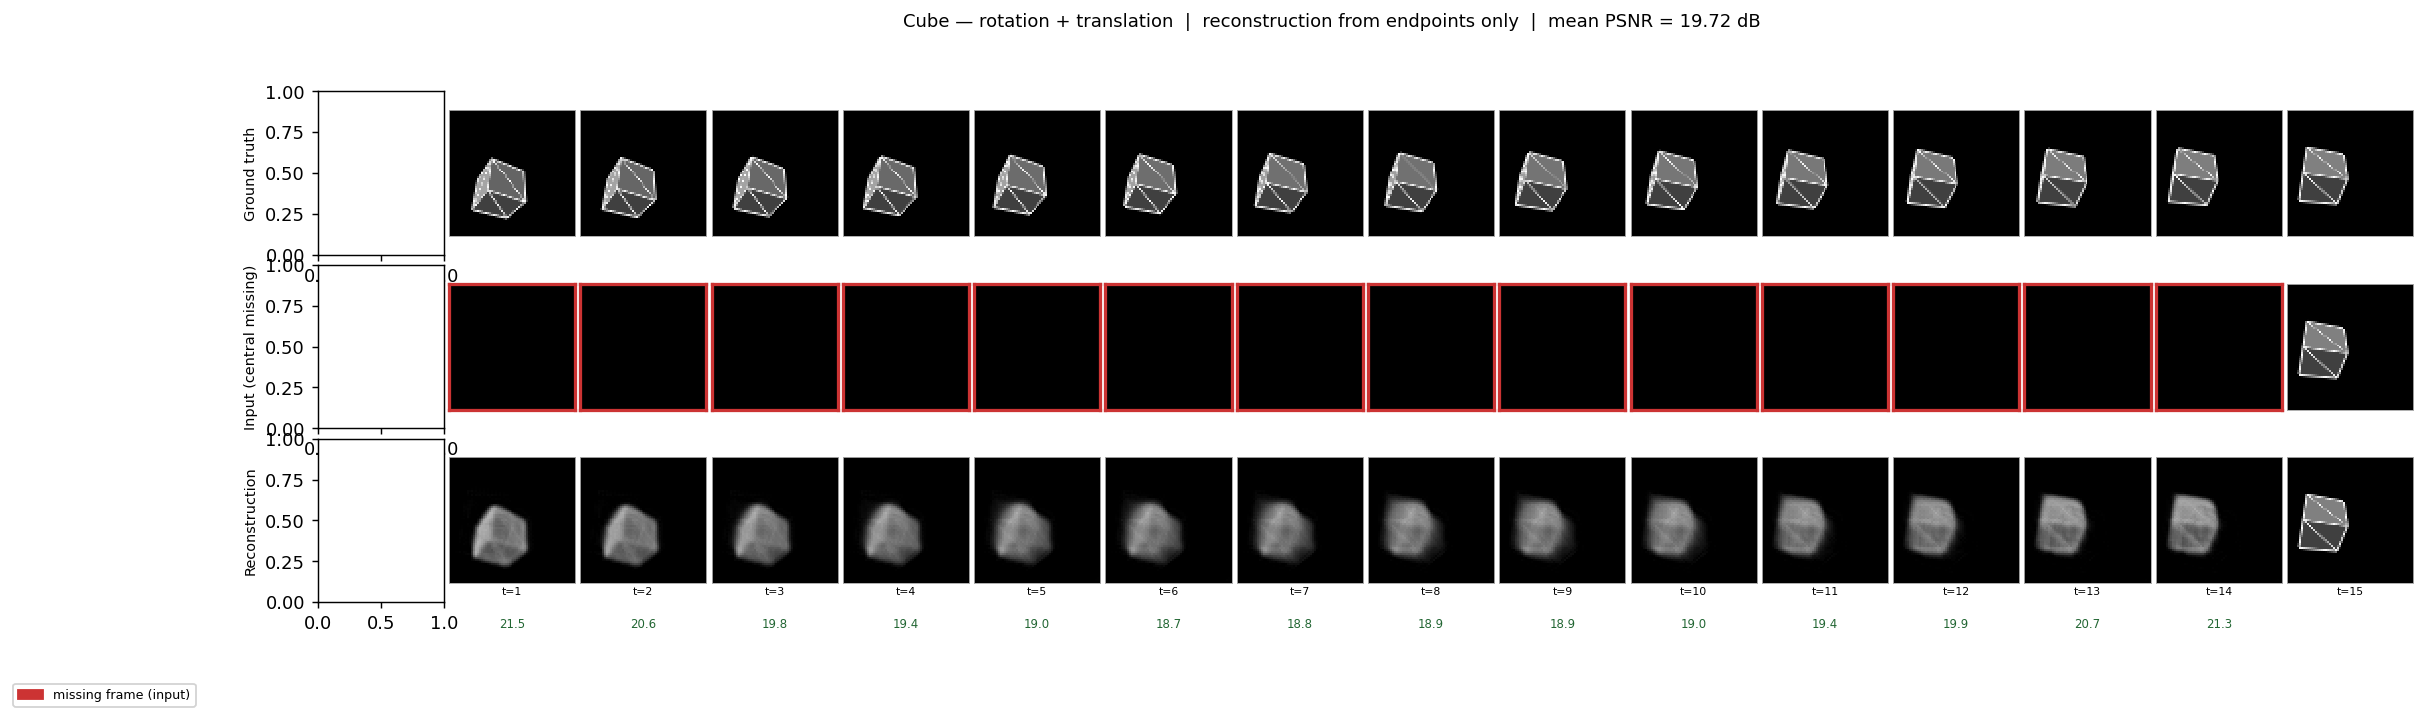
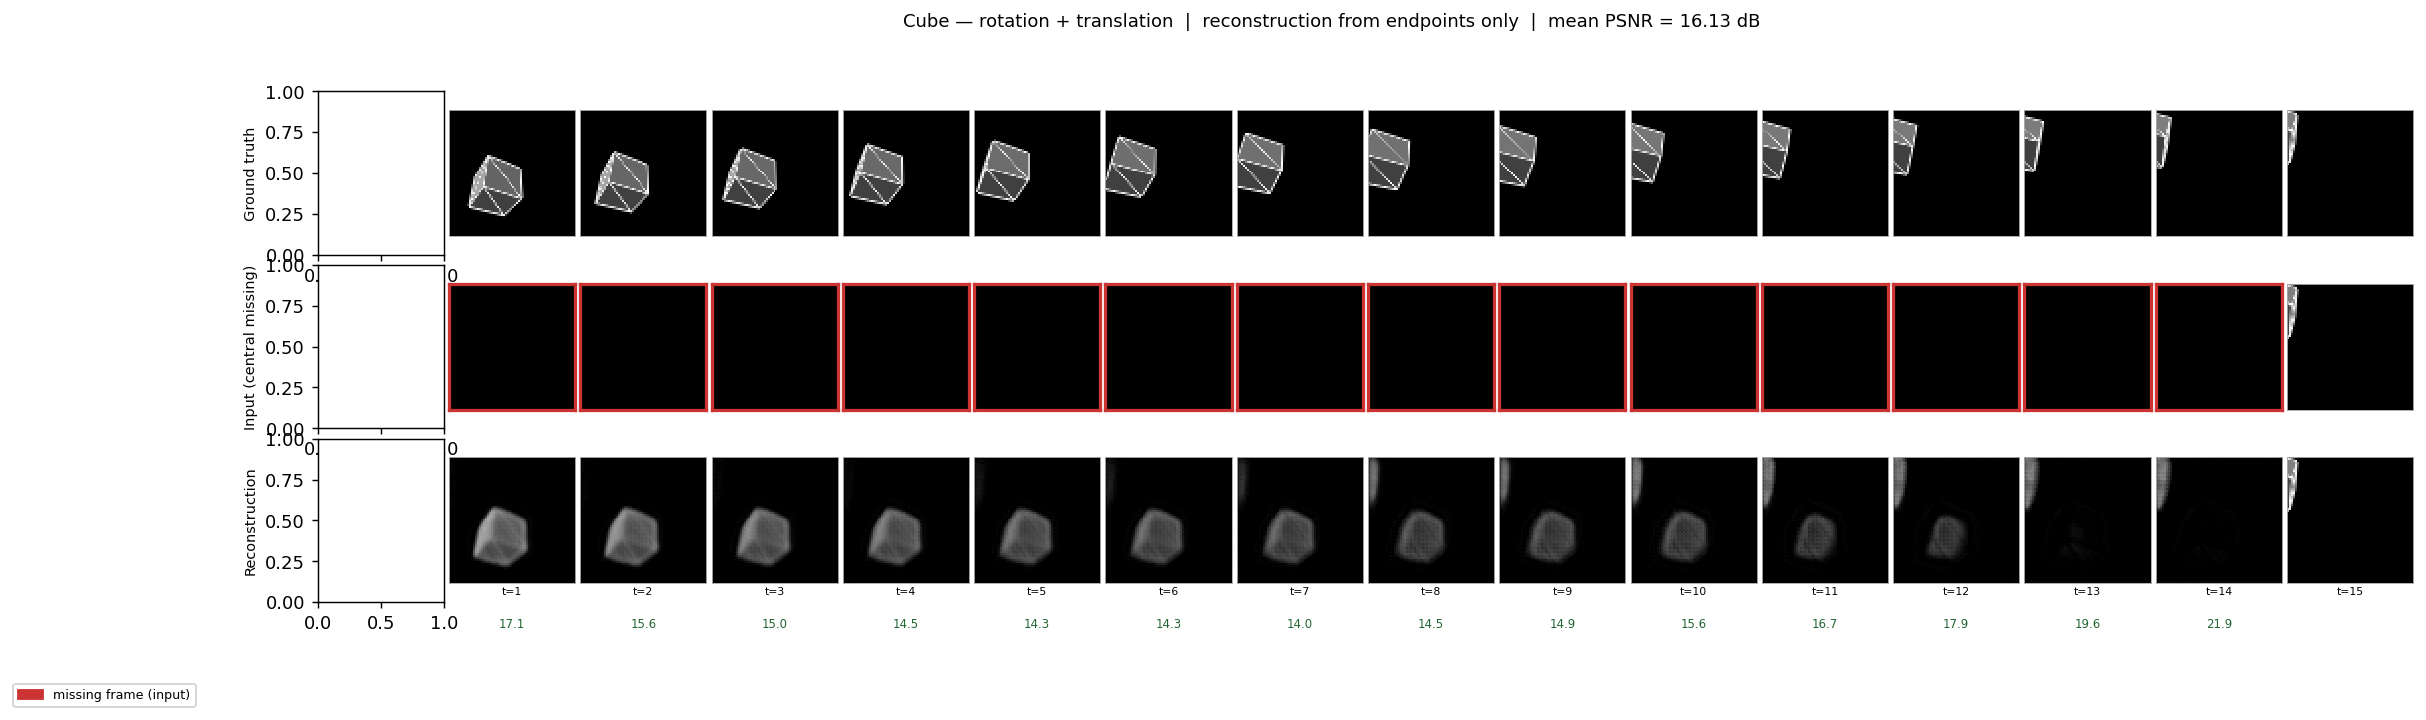
Increase translation speed in visualisation for larger apparent motion
Add trans_speed_range/rot_speed_range parameters to RigidBody.random,
Scene.random, and ApparentMotionDataset so translation speed can be
tuned independently of rotation. visualize_trajectory.py now uses
trans_speed_range=(2.5, 4.0) so the cube travels across most of the
field over 16 frames instead of staying near-centre.

https://claude.ai/code/session_01CpA6B898Laq8kMcJpipdAc

diff --git a/motion_render/body.py b/motion_render/body.py
@@ -48,19 +48,23 @@ class RigidBody:
         mode: str,
         position_range: float = 1.5,
         speed_range: tuple = (0.3, 1.5),
+        trans_speed_range: tuple | None = None,
+        rot_speed_range: tuple | None = None,
     ) -> 'RigidBody':
-        lo, hi = speed_range
+        # trans/rot_speed_range override speed_range when provided
+        tlo, thi = trans_speed_range if trans_speed_range is not None else speed_range
+        rlo, rhi = rot_speed_range   if rot_speed_range   is not None else speed_range
 
         position = (torch.rand(3) * 2 - 1) * position_range
         orientation = torch.eye(3, dtype=torch.float32)
 
-        speed = lo + random.random() * (hi - lo)
+        speed = tlo + random.random() * (thi - tlo)
         v = torch.randn(3)
         velocity = v / (v.norm() + 1e-8) * speed
 
         rot_axis = torch.randn(3)
         rot_axis = rot_axis / (rot_axis.norm() + 1e-8)
-        rot_speed = lo + random.random() * (hi - lo)
+        rot_speed = rlo + random.random() * (rhi - rlo)
 
         return RigidBody(
             shape=shape,

diff --git a/motion_render/apparent_motion_dataset.py b/motion_render/apparent_motion_dataset.py
@@ -45,6 +45,8 @@ class ApparentMotionDataset(Dataset):
         noise_std: float = 0.15,
         missing_prob: float = 0.3,
         seed: int | None = 42,
+        trans_speed_range: tuple | None = None,
+        rot_speed_range: tuple | None = None,
     ) -> None:
         if T < 3:
             raise ValueError(f"T must be >= 3, got {T}")
@@ -66,6 +68,8 @@ class ApparentMotionDataset(Dataset):
         self.noise_std = noise_std
         self.missing_prob = missing_prob
         self.seed = seed
+        self.trans_speed_range = trans_speed_range
+        self.rot_speed_range = rot_speed_range
 
     def __len__(self) -> int:
         return self.n_sequences
@@ -75,7 +79,10 @@ class ApparentMotionDataset(Dataset):
             random.seed(self.seed + idx)
             torch.manual_seed(self.seed + idx)
 
-        scene = Scene.random(n_bodies=1, shape_types=self.shape_types, motion_modes=self.motion_modes)
+        scene = Scene.random(
+            n_bodies=1, shape_types=self.shape_types, motion_modes=self.motion_modes,
+            trans_speed_range=self.trans_speed_range, rot_speed_range=self.rot_speed_range,
+        )
         camera = Camera(self.image_height, self.image_width, self.fov_y)
         camera.place_random(self.camera_radius)
         renderer = Renderer(self.image_height, self.image_width)

diff --git a/motion_render/scene.py b/motion_render/scene.py
@@ -20,12 +20,18 @@ class Scene:
         shape_types: tuple = ('cube', 'sphere', 'tetrahedron'),
         motion_modes: tuple = ('translate', 'rotate', 'both'),
         position_range: float = 1.5,
+        trans_speed_range: tuple | None = None,
+        rot_speed_range: tuple | None = None,
     ) -> 'Scene':
         bodies = []
         for _ in range(n_bodies):
             shape = _SHAPE_FACTORIES[random.choice(shape_types)]()
             mode = random.choice(motion_modes)
-            bodies.append(RigidBody.random(shape, mode, position_range))
+            bodies.append(RigidBody.random(
+                shape, mode, position_range,
+                trans_speed_range=trans_speed_range,
+                rot_speed_range=rot_speed_range,
+            ))
         return Scene(bodies)
 
     def step(self, dt: float = 0.05) -> None:

diff --git a/visualize_trajectory.py b/visualize_trajectory.py
@@ -46,6 +46,7 @@ def main():
         n_sequences=1, T=T,
         shape_type="cube", motion_mode="both",
         corruption_mode="all_missing", seed=VIS_SEED,
+        trans_speed_range=(2.5, 4.0),
     )
     sample  = ds[0]
     targets = sample["targets"]   # [T, 1, H, W]  clean GT